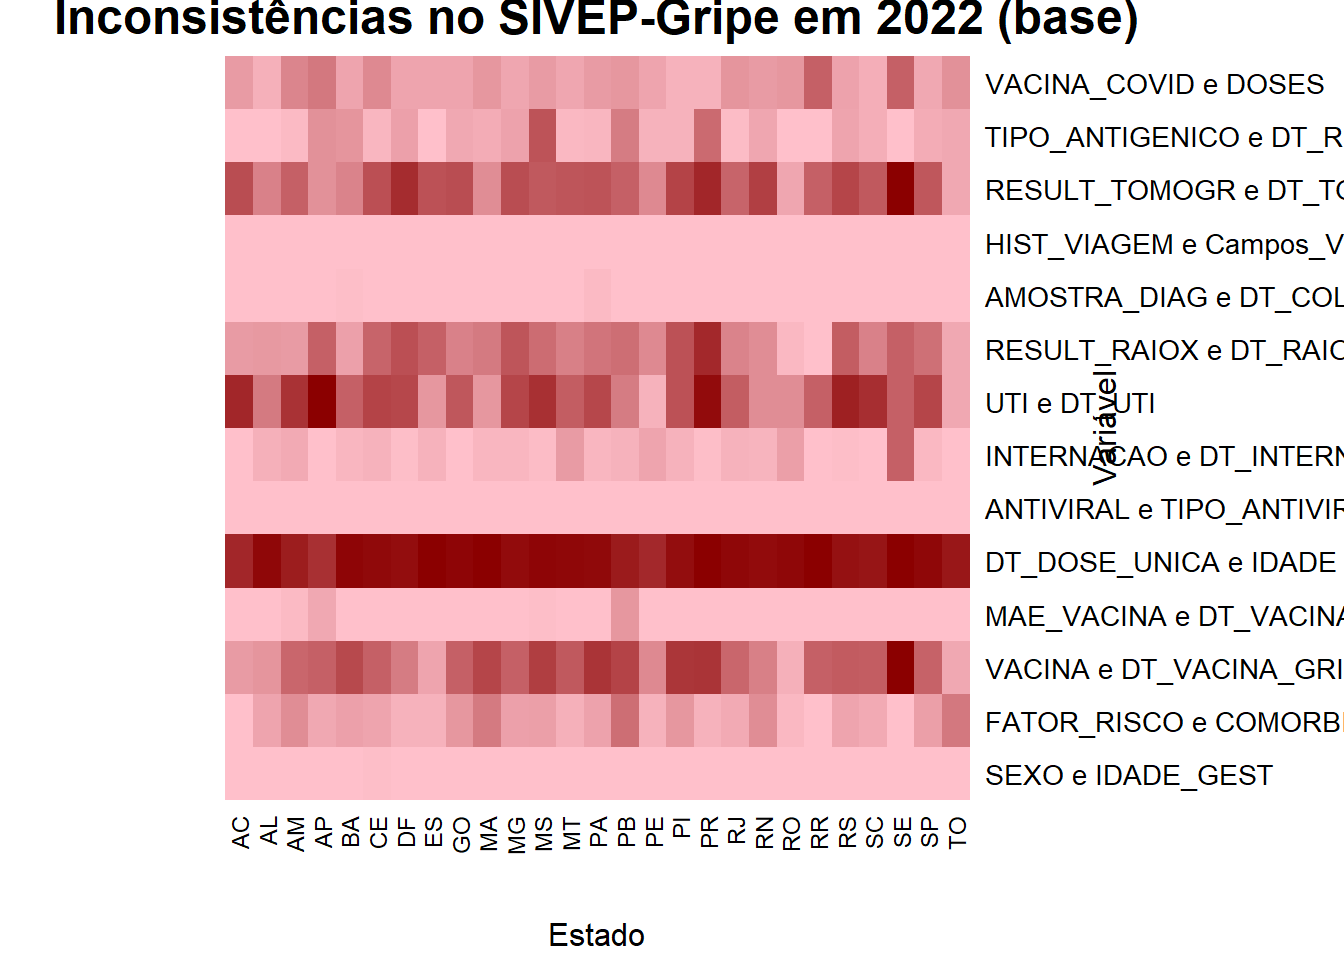
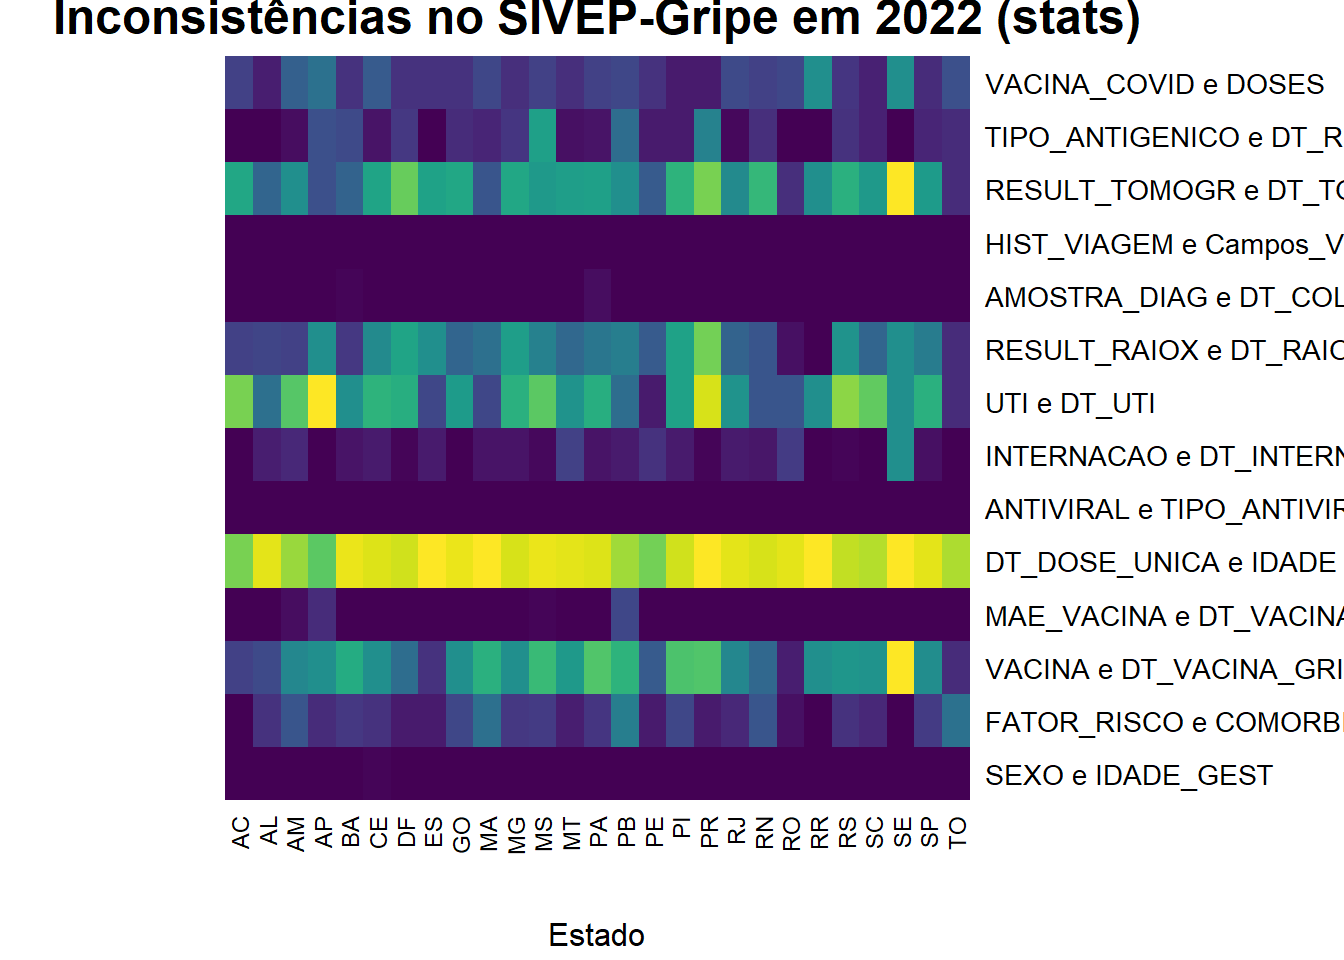
Correções finais

diff --git a/tutorial.html b/tutorial.html
@@ -250,11 +250,11 @@ code span.wa { color: #60a0b0; font-weight: bold; font-style: italic; } /* Warni
 <div class="sourceCode cell-code" id="cb7"><pre class="sourceCode r code-with-copy"><code class="sourceCode r"><span id="cb7-1"><a href="#cb7-1" aria-hidden="true" tabindex="-1"></a><span class="fu">heatmap</span>(matriz_dados,</span>
 <span id="cb7-2"><a href="#cb7-2" aria-hidden="true" tabindex="-1"></a>        <span class="at">Rowv =</span> <span class="cn">NA</span>,</span>
 <span id="cb7-3"><a href="#cb7-3" aria-hidden="true" tabindex="-1"></a>        <span class="at">Colv =</span> <span class="cn">NA</span>,</span>
-<span id="cb7-4"><a href="#cb7-4" aria-hidden="true" tabindex="-1"></a>        <span class="at">col =</span> <span class="fu">colorRampPalette</span>(<span class="fu">c</span>(<span class="st">"pink"</span>, <span class="st">"darkred"</span>))(<span class="dv">100</span>),</span>
+<span id="cb7-4"><a href="#cb7-4" aria-hidden="true" tabindex="-1"></a>        <span class="at">col =</span> viridis<span class="sc">::</span><span class="fu">viridis</span>(<span class="dv">100</span>),</span>
 <span id="cb7-5"><a href="#cb7-5" aria-hidden="true" tabindex="-1"></a>        <span class="at">scale =</span> <span class="st">"none"</span>,</span>
 <span id="cb7-6"><a href="#cb7-6" aria-hidden="true" tabindex="-1"></a>        <span class="at">xlab =</span> <span class="st">"Estado"</span>,</span>
-<span id="cb7-7"><a href="#cb7-7" aria-hidden="true" tabindex="-1"></a>        <span class="at">ylab =</span> <span class="st">"Variável"</span>,</span>
-<span id="cb7-8"><a href="#cb7-8" aria-hidden="true" tabindex="-1"></a>        <span class="at">main =</span> <span class="st">"Inconsistências no SIVEP-Gripe em 2022 (base)"</span></span>
+<span id="cb7-7"><a href="#cb7-7" aria-hidden="true" tabindex="-1"></a>        <span class="at">ylab =</span> <span class="st">""</span>,</span>
+<span id="cb7-8"><a href="#cb7-8" aria-hidden="true" tabindex="-1"></a>        <span class="at">main =</span> <span class="st">"Inconsistências no SIVEP-Gripe em 2022 (stats)"</span></span>
 <span id="cb7-9"><a href="#cb7-9" aria-hidden="true" tabindex="-1"></a>)</span></code><button title="Copy to Clipboard" class="code-copy-button"><i class="bi"></i></button></pre></div>
 <div class="cell-output-display">
 <p><img src="tutorial_files/figure-html/heatmap-1.png" class="img-fluid" width="672"></p>
@@ -272,7 +272,7 @@ code span.wa { color: #60a0b0; font-weight: bold; font-style: italic; } /* Warni
 <span id="cb8-3"><a href="#cb8-3" aria-hidden="true" tabindex="-1"></a><span class="fu">pheatmap</span>(matriz_dados,</span>
 <span id="cb8-4"><a href="#cb8-4" aria-hidden="true" tabindex="-1"></a>         <span class="at">cluster_rows =</span> <span class="cn">FALSE</span>,</span>
 <span id="cb8-5"><a href="#cb8-5" aria-hidden="true" tabindex="-1"></a>         <span class="at">cluster_cols =</span> <span class="cn">FALSE</span>,</span>
-<span id="cb8-6"><a href="#cb8-6" aria-hidden="true" tabindex="-1"></a>         <span class="at">color =</span> <span class="fu">colorRampPalette</span>(<span class="fu">c</span>(<span class="st">"pink"</span>, <span class="st">"darkred"</span>))(<span class="dv">100</span>),</span>
+<span id="cb8-6"><a href="#cb8-6" aria-hidden="true" tabindex="-1"></a>         <span class="at">color =</span> viridis<span class="sc">::</span><span class="fu">viridis</span>(<span class="dv">100</span>),</span>
 <span id="cb8-7"><a href="#cb8-7" aria-hidden="true" tabindex="-1"></a>         <span class="at">fontsize =</span> <span class="dv">8</span>,</span>
 <span id="cb8-8"><a href="#cb8-8" aria-hidden="true" tabindex="-1"></a>         <span class="at">main =</span>  <span class="st">"Inconsistências no SIVEP-Gripe em 2022 (pheatmap)"</span></span>
 <span id="cb8-9"><a href="#cb8-9" aria-hidden="true" tabindex="-1"></a>)</span></code><button title="Copy to Clipboard" class="code-copy-button"><i class="bi"></i></button></pre></div>
@@ -288,20 +288,20 @@ code span.wa { color: #60a0b0; font-weight: bold; font-style: italic; } /* Warni
 <div class="cell">
 <div class="sourceCode cell-code" id="cb9"><pre class="sourceCode r code-with-copy"><code class="sourceCode r"><span id="cb9-1"><a href="#cb9-1" aria-hidden="true" tabindex="-1"></a><span class="fu">library</span>(ggplot2) <span class="co"># chamando biblioteca</span></span>
 <span id="cb9-2"><a href="#cb9-2" aria-hidden="true" tabindex="-1"></a></span>
-<span id="cb9-3"><a href="#cb9-3" aria-hidden="true" tabindex="-1"></a><span class="fu">ggplot</span>(dataset_aux, <span class="fu">aes</span>(<span class="at">x =</span> ESTADO, <span class="at">y =</span> VARIAVEL,</span>
-<span id="cb9-4"><a href="#cb9-4" aria-hidden="true" tabindex="-1"></a>                                       <span class="at">fill =</span> PORCENTAGEM_INCONSISTENTES)) <span class="sc">+</span></span>
-<span id="cb9-5"><a href="#cb9-5" aria-hidden="true" tabindex="-1"></a>  <span class="fu">geom_tile</span>() <span class="sc">+</span></span>
-<span id="cb9-6"><a href="#cb9-6" aria-hidden="true" tabindex="-1"></a>  <span class="fu">scale_fill_gradient</span>(<span class="at">low =</span> <span class="st">"pink"</span>,</span>
-<span id="cb9-7"><a href="#cb9-7" aria-hidden="true" tabindex="-1"></a>                      <span class="at">high =</span> <span class="st">"darkred"</span>,</span>
-<span id="cb9-8"><a href="#cb9-8" aria-hidden="true" tabindex="-1"></a>                      <span class="at">name =</span> <span class="st">"Porcentagem"</span>,</span>
-<span id="cb9-9"><a href="#cb9-9" aria-hidden="true" tabindex="-1"></a>                      <span class="at">labels =</span> scales<span class="sc">::</span>percent) <span class="sc">+</span></span>
+<span id="cb9-3"><a href="#cb9-3" aria-hidden="true" tabindex="-1"></a><span class="fu">ggplot</span>(dataset_aux, <span class="fu">aes</span>(<span class="at">x =</span> ESTADO, <span class="at">y =</span> VARIAVEL, <span class="at">fill =</span> PORCENTAGEM_INCONSISTENTES)) <span class="sc">+</span></span>
+<span id="cb9-4"><a href="#cb9-4" aria-hidden="true" tabindex="-1"></a>  <span class="fu">geom_tile</span>() <span class="sc">+</span></span>
+<span id="cb9-5"><a href="#cb9-5" aria-hidden="true" tabindex="-1"></a>  <span class="fu">scale_fill_viridis_c</span>(</span>
+<span id="cb9-6"><a href="#cb9-6" aria-hidden="true" tabindex="-1"></a>    <span class="at">name =</span> <span class="st">"Porcentagem"</span>,</span>
+<span id="cb9-7"><a href="#cb9-7" aria-hidden="true" tabindex="-1"></a>    <span class="at">labels =</span> scales<span class="sc">::</span>percent,</span>
+<span id="cb9-8"><a href="#cb9-8" aria-hidden="true" tabindex="-1"></a>    <span class="at">option =</span> <span class="st">"D"</span></span>
+<span id="cb9-9"><a href="#cb9-9" aria-hidden="true" tabindex="-1"></a>  ) <span class="sc">+</span></span>
 <span id="cb9-10"><a href="#cb9-10" aria-hidden="true" tabindex="-1"></a>  <span class="fu">theme_minimal</span>() <span class="sc">+</span></span>
 <span id="cb9-11"><a href="#cb9-11" aria-hidden="true" tabindex="-1"></a>  <span class="fu">labs</span>(<span class="at">title =</span> <span class="st">"Inconsistências no SIVEP-Gripe em 2022 (ggplot)"</span>)</span></code><button title="Copy to Clipboard" class="code-copy-button"><i class="bi"></i></button></pre></div>
 <div class="cell-output-display">
 <p><img src="tutorial_files/figure-html/unnamed-chunk-1-1.png" class="img-fluid" width="672"></p>
 </div>
 </div>
-<p>Neste código, <strong><code>aes()</code></strong> define as variáveis do eixo x e do eixo y. <strong><code>scale_fill_gradiente</code></strong> ajusta a escala de cores do preenchimento das células do mapa de calor. Ele define a cor inicial (<strong><code>low</code></strong>) como “pink” e a cor final (<strong><code>high</code></strong>) como “darkred”. O argumento <code>name</code> define o rótulo da legenda de cores como “Porcentagem”,<code>labels</code> especifica que os rótulos na legenda serão formatados como percentuais usando a função <strong><code>scales::percent</code></strong>. <strong><code>theme_minimal()</code></strong> define o tema do gráfico comom minimalista. <strong><code>labs()</code></strong> define o titulo do gráfico.</p>
+<p>Neste código, <strong><code>aes()</code></strong> define as variáveis do eixo x e do eixo y. scale_fill_viridis_c() ajusta a escala de cores do preenchimento das células do mapa de calor, utilizando a paleta perceptualmente uniforme da função viridis. O argumento option = “D” especifica a variação da paleta utilizada. O argumento name define o rótulo da legenda de cores como “Porcentagem” e labels formata os valores na legenda como percentuais usando a função scales::percent. theme_minimal() define o tema do gráfico como minimalista. labs() define o título do gráfico.</p>
 <p><strong><code>ggplot()</code></strong> embora ofereça uma gama mais ampla de opções, não será de fácil utilização para pessoas que não tenham conhecimento prévio sobre a ferramenta. Dito isso, é interessante aprender ggplot2, pois é uma ferramenta que permite criar variados tipos de gráficos. No OObr, o aluno Pedro Brito apresentou um minicurso de ggplot2 em um workshop de Ciência de Dados, disponível neste <a href="https://observatorioobstetricobr.org/publicacoes/oobr-realiza-workshop-de-ciencia-de-dados-em-parceria-com-a-constat/">link</a>.</p>
 </section>
 <section id="conclusão" class="level2">
